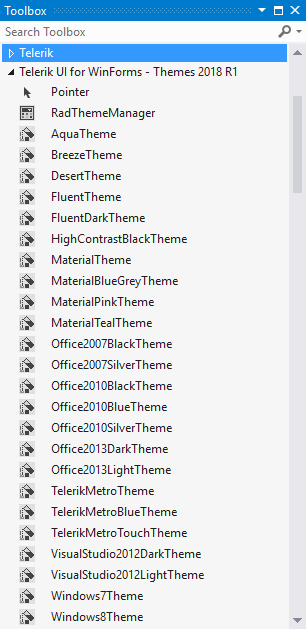
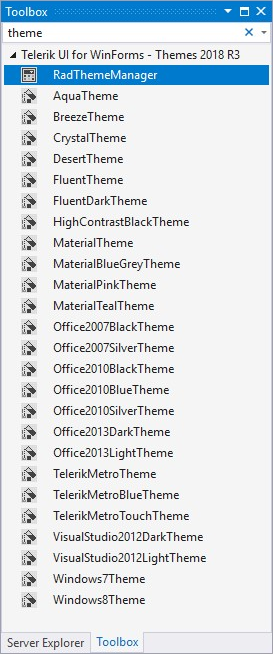
Updated the documentation with the Crystal theme

Changed region(s): [[0.0, 0.0, 1.0, 1.0]]

diff --git a/installation-deployment-and-distribution/application-deployment.md b/installation-deployment-and-distribution/application-deployment.md
@@ -275,6 +275,18 @@ Telerik.WinControls.dll</td></tr><tr><td>
 
 Telerik.WinControls.Themes.Aqua.dll</td></tr><tr><td>
 
+<b>FluentTheme</b></td><td>
+
+Telerik.WinControls.Themes.Fluent.dll</td></tr><tr><td>
+
+<b>FluentDarkTheme</b></td><td>
+
+Telerik.WinControls.Themes.FluentDark.dll</td></tr><tr><td>
+
+<b>CrystalTheme</b></td><td>
+
+Telerik.WinControls.Themes.Crystal.dll</td></tr><tr><td>
+
 <b>DesertTheme</b></td><td>
 
 Telerik.WinControls.Themes.Desert.dll</td></tr><tr><td>

diff --git a/introduction.md b/introduction.md
@@ -139,6 +139,8 @@ Telerik UI for for WinForms includes over 120 UI controls that you can use to ea
 
 	* BreezeTheme
 
+	* CrystalTheme
+    
 	* DesertTheme
 	
 	* FluentTheme
